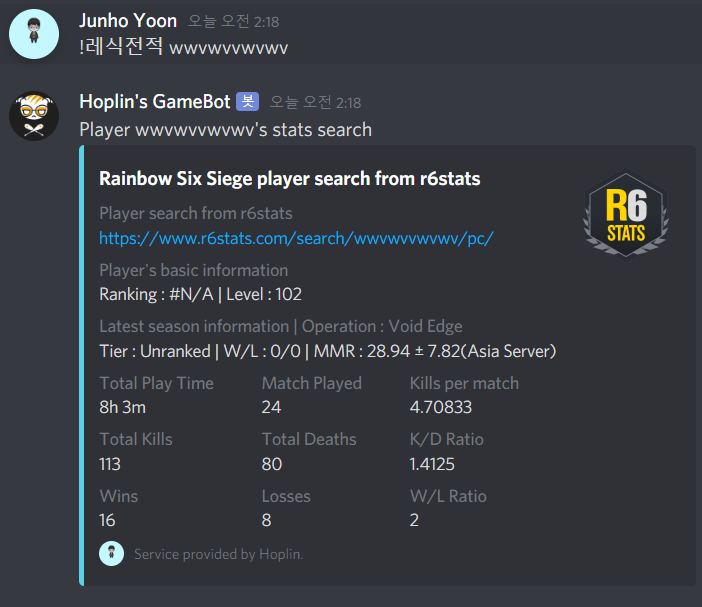
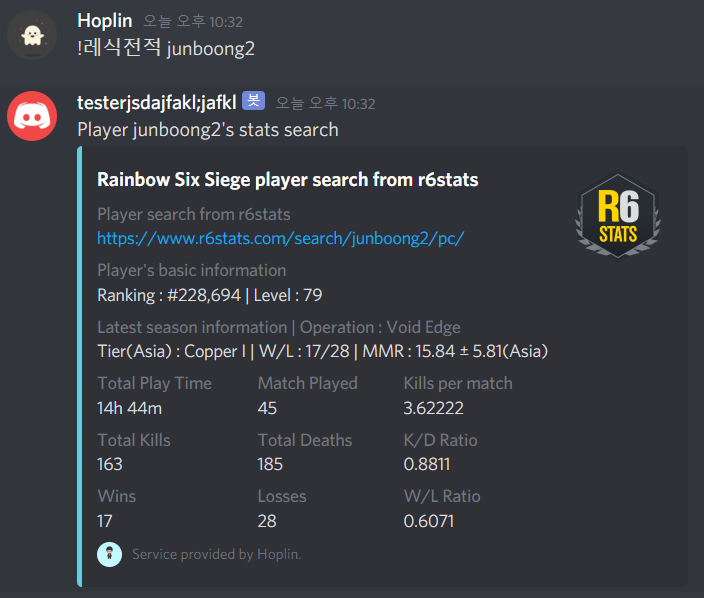
Patch Note 20200504

Changed region(s): [[0.0, 0.1505, 0.8077, 0.9933], [0.0, 0.0, 0.4188, 0.1204], [0.8077, 0.2709, 0.9573, 0.4515]]

diff --git a/RainbowSixSIegeSearchBot.py b/RainbowSixSIegeSearchBot.py
@@ -13,6 +13,7 @@ import re # Regex for youtube link
 import warnings
 import requests
 import unicodedata
+from tqdm import tqdm
 
 operatoriconURLDict = dict()
 
@@ -24,9 +25,8 @@ bs = BeautifulSoup(html,'html.parser')
 
 #Get oprators' pages with ccid
 operatorListDiv = bs.findAll('div',{'ccid' : re.compile('[0-9A-Za-z]*')})
-print(len(operatorListDiv))
-for ind in range(0,len(operatorListDiv)):
-    print(ind + 1)
+print("Initiating Rainbow Six Siege Operators' Information....")
+for ind in tqdm(range(0,len(operatorListDiv))):
     operatormainURL = operatorListDiv[ind].a['href']
     #Get Operator's name
     operatorname = operatormainURL.split('/')[-1]
@@ -148,6 +148,8 @@ async def on_message(message): # on_message() event : when the bot has recieved 
                     else:
                         pass
 
+                # Player's Tier Information
+                latestSeasonTier = getElements.find('img')['alt']
                 # MMR Datas Info -> [Win,Losses,Abandon,Max,W/L,MMR]
                 mmrDatas = []
                 for dt in getElements.findAll('span', {'class': 'season-stat--region-stats__stat'}):
@@ -162,8 +164,8 @@ async def on_message(message): # on_message() event : when the bot has recieved 
                                 inline=False)
                 embed.add_field(name="Latest season information | Operation : " + OperationName,
                                 value=
-                                "Tier : " + lastestSeasonRankTier + " | W/L : " + mmrDatas[0] + "/" + mmrDatas[
-                                    1] + " | " + "MMR : " + mmrDatas[-1] + "(Asia Server)",
+                                "Tier(Asia) : " + latestSeasonTier + " | W/L : " + mmrDatas[0] + "/" + mmrDatas[
+                                    1] + " | " + "MMR(Asia) : " + mmrDatas[-1],
                                 inline=False)
 
                 embed.add_field(name="Total Play Time", value=RankStats[0], inline=True)
@@ -263,7 +265,8 @@ async def on_message(message): # on_message() event : when the bot has recieved 
                             break
                         else:
                             pass
-
+                    # Player's Tier Information
+                    latestSeasonTier = getElements.find('img')['alt']
                     # MMR Datas Info -> [Win,Losses,Abandon,Max,W/L,MMR]
                     mmrDatas = []
                     for dt in getElements.findAll('span', {'class': 'season-stat--region-stats__stat'}):
@@ -276,7 +279,7 @@ async def on_message(message): # on_message() event : when the bot has recieved 
                     embed.add_field(name="Player's basic information",value= "Ranking : #" + latestSeasonRanking + " | " + "Level : " + playerLevel,inline=False)
                     embed.add_field(name="Latest season information | Operation : " + OperationName,
                                     value=
-                                    "Tier : " + lastestSeasonRankTier + " | W/L : " + mmrDatas[0] + "/"+mmrDatas[1] + " | " + "MMR : " + mmrDatas[-1] +"(Asia Server)",
+                                    "Tier(Asia) : " + latestSeasonTier + " | W/L : " + mmrDatas[0] + "/"+mmrDatas[1] + " | " + "MMR(Asia) : " + mmrDatas[-1],
                                     inline=False)
 
                     embed.add_field(name="Total Play Time", value=RankStats[0], inline=True)

diff --git a/README.md b/README.md
@@ -23,6 +23,14 @@ Discord Bot : Rainbow Six Siege player information search bot
   - Patch Note 20200405
   
     - Add Latest Season MMR View
+  
+  - Patch Note 20200504
+
+    - Until now you can only view best tier of rank in all three servers. This means, you can't view real-time tier.
+
+    - In this patch note, now you can view your real time Asia server rank tier. 
+
+    - MMR View and Tier view about America and Europe server will be patch later.
 ***
 
   - There are two function related to rainbow six siege stat search.
@@ -32,9 +40,12 @@ Discord Bot : Rainbow Six Siege player information search bot
       - Search your R6 Rank informatier, Level, Tier
       
       ![img](1.PNG)
+
+      ![img](2.PNG)
     
     2 . Search by operators : !레식오퍼 (nickname)
     
       - Search your stats about your use of operators
       
-       ![img](2.jpg)
+       ![img](3.jpg)
+      
